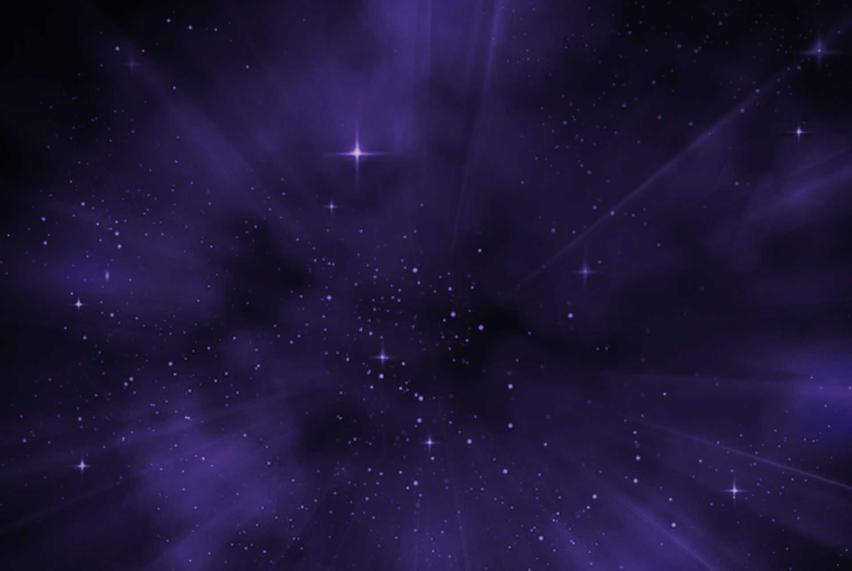
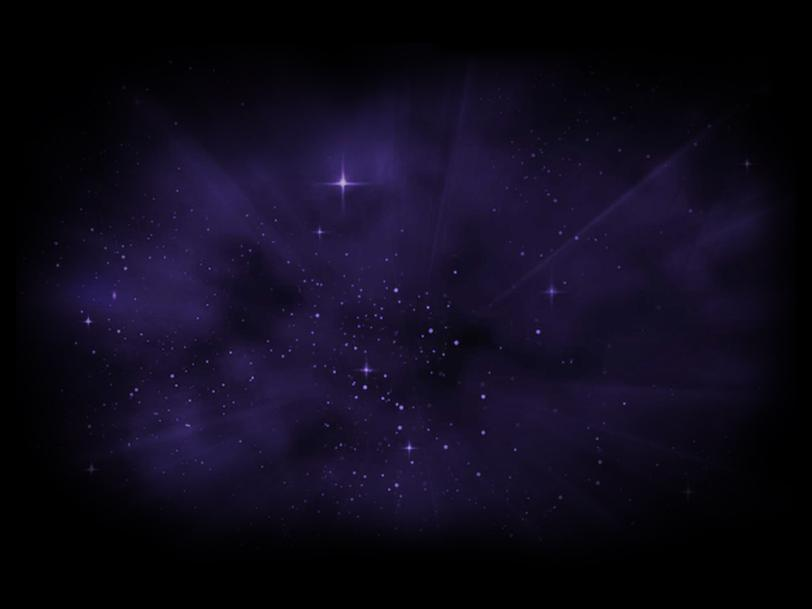
ui update

diff --git a/src/components/PageContact.vue b/src/components/PageContact.vue
@@ -15,23 +15,24 @@
           <CornButton content="GET CORNY WITH US"/>
         </a>
         <p v-if="isMobile" class="pt-4 md:pt-12 text-base">Proudly minting on <a target="_blank" :href="hederaLink"><span class="font-bold underline">Hedera</span></a></p>
+
         <p class="degular text-base px-4 md:px-0 pt-4 md:pt-16">&copy;CornyCohbs 2023 | NFTs with utilities</p>
       </div>
       <div class="md:pl-12 xl:pl-32 degular">
-        <p class="font-bold underline text-2xl">HOME</p>
+        <p class="font-bold underline text-2xl hoverState">HOME</p>
         <p class="py-2 font-bold cornyLightPurple text-2xl">Team (Coming Soon)</p>
         <p class="py-2 font-bold cornyLightPurple text-2xl">Collections (Coming Soon)</p>
         <div class="flex justify-center md:justify-start pt-4 sm:pt-10 md:pt-20 text-base">
-          <a target="_blank" :href="twitterLink" class="pr-8" >
-            <img src="@/assets/twitter.png" class="icons" alt="twitter_icon">
+          <a target="_blank" :href="twitterLink" class="pr-8 hoverState">
+            <svg fill="#FFFFFF" xmlns="http://www.w3.org/2000/svg" viewBox="0 0 50 50" class="iconsHoverState"><path d="M 50.0625 10.4375 C 48.214844 11.257813 46.234375 11.808594 44.152344 12.058594 C 46.277344 10.785156 47.910156 8.769531 48.675781 6.371094 C 46.691406 7.546875 44.484375 8.402344 42.144531 8.863281 C 40.269531 6.863281 37.597656 5.617188 34.640625 5.617188 C 28.960938 5.617188 24.355469 10.21875 24.355469 15.898438 C 24.355469 16.703125 24.449219 17.488281 24.625 18.242188 C 16.078125 17.8125 8.503906 13.71875 3.429688 7.496094 C 2.542969 9.019531 2.039063 10.785156 2.039063 12.667969 C 2.039063 16.234375 3.851563 19.382813 6.613281 21.230469 C 4.925781 21.175781 3.339844 20.710938 1.953125 19.941406 C 1.953125 19.984375 1.953125 20.027344 1.953125 20.070313 C 1.953125 25.054688 5.5 29.207031 10.199219 30.15625 C 9.339844 30.390625 8.429688 30.515625 7.492188 30.515625 C 6.828125 30.515625 6.183594 30.453125 5.554688 30.328125 C 6.867188 34.410156 10.664063 37.390625 15.160156 37.472656 C 11.644531 40.230469 7.210938 41.871094 2.390625 41.871094 C 1.558594 41.871094 0.742188 41.824219 -0.0585938 41.726563 C 4.488281 44.648438 9.894531 46.347656 15.703125 46.347656 C 34.617188 46.347656 44.960938 30.679688 44.960938 17.09375 C 44.960938 16.648438 44.949219 16.199219 44.933594 15.761719 C 46.941406 14.3125 48.683594 12.5 50.0625 10.4375 Z"/></svg>
             <span>Twitter</span>
           </a>
-          <a target="_blank" :href="discordLink" class="icons" >
-            <img src="@/assets/discord.png" class="" alt="discord_icon">
+          <a target="_blank" :href="discordLink" class="hoverState">
+            <svg fill="#FFFFFF" xmlns="http://www.w3.org/2000/svg" viewBox="0 0 50 50" class="iconsHoverState"><path d="M 41.625 10.769531 C 37.644531 7.566406 31.347656 7.023438 31.078125 7.003906 C 30.660156 6.96875 30.261719 7.203125 30.089844 7.589844 C 30.074219 7.613281 29.9375 7.929688 29.785156 8.421875 C 32.417969 8.867188 35.652344 9.761719 38.578125 11.578125 C 39.046875 11.867188 39.191406 12.484375 38.902344 12.953125 C 38.710938 13.261719 38.386719 13.429688 38.050781 13.429688 C 37.871094 13.429688 37.6875 13.378906 37.523438 13.277344 C 32.492188 10.15625 26.210938 10 25 10 C 23.789063 10 17.503906 10.15625 12.476563 13.277344 C 12.007813 13.570313 11.390625 13.425781 11.101563 12.957031 C 10.808594 12.484375 10.953125 11.871094 11.421875 11.578125 C 14.347656 9.765625 17.582031 8.867188 20.214844 8.425781 C 20.0625 7.929688 19.925781 7.617188 19.914063 7.589844 C 19.738281 7.203125 19.34375 6.960938 18.921875 7.003906 C 18.652344 7.023438 12.355469 7.566406 8.320313 10.8125 C 6.214844 12.761719 2 24.152344 2 34 C 2 34.175781 2.046875 34.34375 2.132813 34.496094 C 5.039063 39.605469 12.972656 40.941406 14.78125 41 C 14.789063 41 14.800781 41 14.8125 41 C 15.132813 41 15.433594 40.847656 15.621094 40.589844 L 17.449219 38.074219 C 12.515625 36.800781 9.996094 34.636719 9.851563 34.507813 C 9.4375 34.144531 9.398438 33.511719 9.765625 33.097656 C 10.128906 32.683594 10.761719 32.644531 11.175781 33.007813 C 11.234375 33.0625 15.875 37 25 37 C 34.140625 37 38.78125 33.046875 38.828125 33.007813 C 39.242188 32.648438 39.871094 32.683594 40.238281 33.101563 C 40.601563 33.515625 40.5625 34.144531 40.148438 34.507813 C 40.003906 34.636719 37.484375 36.800781 32.550781 38.074219 L 34.378906 40.589844 C 34.566406 40.847656 34.867188 41 35.1875 41 C 35.199219 41 35.210938 41 35.21875 41 C 37.027344 40.941406 44.960938 39.605469 47.867188 34.496094 C 47.953125 34.34375 48 34.175781 48 34 C 48 24.152344 43.785156 12.761719 41.625 10.769531 Z M 18.5 30 C 16.566406 30 15 28.210938 15 26 C 15 23.789063 16.566406 22 18.5 22 C 20.433594 22 22 23.789063 22 26 C 22 28.210938 20.433594 30 18.5 30 Z M 31.5 30 C 29.566406 30 28 28.210938 28 26 C 28 23.789063 29.566406 22 31.5 22 C 33.433594 22 35 23.789063 35 26 C 35 28.210938 33.433594 30 31.5 30 Z"/></svg>            
             <span>Discord</span>
           </a>
         </div>
-        <p v-if="!isMobile" class="pt-4 md:pt-12 text-base">Proudly minting on <a target="_blank" :href="hederaLink"><span class="font-bold underline">Hedera</span></a></p>
+        <p v-if="!isMobile" class="pt-4 md:pt-12 text-base">Proudly minting on <a target="_blank" :href="hederaLink"><span class="font-bold underline hoverState">Hedera</span></a></p>
       </div>
     </div>
   </div>
@@ -51,3 +52,13 @@ export default {
     }
 }
 </script>
+<style>
+.icons {
+  width: 50px;
+  height: 50px;
+}
+
+.hoverState:hover {
+  color: #FCEA4D;
+}
+</style>

diff --git a/src/components/PageHeader.vue b/src/components/PageHeader.vue
@@ -6,12 +6,16 @@
                 <span class="text-white">Cohbs</span>
             </div>
             <div class="flex">
-                <a target="_blank" :href="twitterLink"><img src="@/assets/twitter.png" class="mx-4 icons" alt="twitter_icon"></a>
-                <a target="_blank" :href="discordLink"><img src="@/assets/discord.png" class="mx-4 icons" alt="discord_icon"></a>
+                <a target="_blank" :href="twitterLink">
+                  <svg fill="#FFFFFF" xmlns="http://www.w3.org/2000/svg" viewBox="0 0 50 50" class="mx-4 icons iconsHoverState"><path d="M 50.0625 10.4375 C 48.214844 11.257813 46.234375 11.808594 44.152344 12.058594 C 46.277344 10.785156 47.910156 8.769531 48.675781 6.371094 C 46.691406 7.546875 44.484375 8.402344 42.144531 8.863281 C 40.269531 6.863281 37.597656 5.617188 34.640625 5.617188 C 28.960938 5.617188 24.355469 10.21875 24.355469 15.898438 C 24.355469 16.703125 24.449219 17.488281 24.625 18.242188 C 16.078125 17.8125 8.503906 13.71875 3.429688 7.496094 C 2.542969 9.019531 2.039063 10.785156 2.039063 12.667969 C 2.039063 16.234375 3.851563 19.382813 6.613281 21.230469 C 4.925781 21.175781 3.339844 20.710938 1.953125 19.941406 C 1.953125 19.984375 1.953125 20.027344 1.953125 20.070313 C 1.953125 25.054688 5.5 29.207031 10.199219 30.15625 C 9.339844 30.390625 8.429688 30.515625 7.492188 30.515625 C 6.828125 30.515625 6.183594 30.453125 5.554688 30.328125 C 6.867188 34.410156 10.664063 37.390625 15.160156 37.472656 C 11.644531 40.230469 7.210938 41.871094 2.390625 41.871094 C 1.558594 41.871094 0.742188 41.824219 -0.0585938 41.726563 C 4.488281 44.648438 9.894531 46.347656 15.703125 46.347656 C 34.617188 46.347656 44.960938 30.679688 44.960938 17.09375 C 44.960938 16.648438 44.949219 16.199219 44.933594 15.761719 C 46.941406 14.3125 48.683594 12.5 50.0625 10.4375 Z"/></svg>
+                </a>
+                <a target="_blank" :href="discordLink">
+                  <svg fill="#FFFFFF" xmlns="http://www.w3.org/2000/svg" viewBox="0 0 50 50" class="mx-4 icons iconsHoverState"><path d="M 41.625 10.769531 C 37.644531 7.566406 31.347656 7.023438 31.078125 7.003906 C 30.660156 6.96875 30.261719 7.203125 30.089844 7.589844 C 30.074219 7.613281 29.9375 7.929688 29.785156 8.421875 C 32.417969 8.867188 35.652344 9.761719 38.578125 11.578125 C 39.046875 11.867188 39.191406 12.484375 38.902344 12.953125 C 38.710938 13.261719 38.386719 13.429688 38.050781 13.429688 C 37.871094 13.429688 37.6875 13.378906 37.523438 13.277344 C 32.492188 10.15625 26.210938 10 25 10 C 23.789063 10 17.503906 10.15625 12.476563 13.277344 C 12.007813 13.570313 11.390625 13.425781 11.101563 12.957031 C 10.808594 12.484375 10.953125 11.871094 11.421875 11.578125 C 14.347656 9.765625 17.582031 8.867188 20.214844 8.425781 C 20.0625 7.929688 19.925781 7.617188 19.914063 7.589844 C 19.738281 7.203125 19.34375 6.960938 18.921875 7.003906 C 18.652344 7.023438 12.355469 7.566406 8.320313 10.8125 C 6.214844 12.761719 2 24.152344 2 34 C 2 34.175781 2.046875 34.34375 2.132813 34.496094 C 5.039063 39.605469 12.972656 40.941406 14.78125 41 C 14.789063 41 14.800781 41 14.8125 41 C 15.132813 41 15.433594 40.847656 15.621094 40.589844 L 17.449219 38.074219 C 12.515625 36.800781 9.996094 34.636719 9.851563 34.507813 C 9.4375 34.144531 9.398438 33.511719 9.765625 33.097656 C 10.128906 32.683594 10.761719 32.644531 11.175781 33.007813 C 11.234375 33.0625 15.875 37 25 37 C 34.140625 37 38.78125 33.046875 38.828125 33.007813 C 39.242188 32.648438 39.871094 32.683594 40.238281 33.101563 C 40.601563 33.515625 40.5625 34.144531 40.148438 34.507813 C 40.003906 34.636719 37.484375 36.800781 32.550781 38.074219 L 34.378906 40.589844 C 34.566406 40.847656 34.867188 41 35.1875 41 C 35.199219 41 35.210938 41 35.21875 41 C 37.027344 40.941406 44.960938 39.605469 47.867188 34.496094 C 47.953125 34.34375 48 34.175781 48 34 C 48 24.152344 43.785156 12.761719 41.625 10.769531 Z M 18.5 30 C 16.566406 30 15 28.210938 15 26 C 15 23.789063 16.566406 22 18.5 22 C 20.433594 22 22 23.789063 22 26 C 22 28.210938 20.433594 30 18.5 30 Z M 31.5 30 C 29.566406 30 28 28.210938 28 26 C 28 23.789063 29.566406 22 31.5 22 C 33.433594 22 35 23.789063 35 26 C 35 28.210938 33.433594 30 31.5 30 Z"/></svg>
+                </a>
             </div>
         </div>
   </div>
-  <div id="intoTheCornVerse" class="min-h-70 flex items-center">
+  <div id="intoTheCornVerse" class="flex items-center min-h-70">
         <img src="@/assets/cornverse.png" class="mx-auto avatar" alt="into_the_cornverse">
   </div>
 </template>
@@ -28,15 +32,27 @@ export default {
 	animation: float 6s ease-in-out infinite;
 }
 
+.icons {
+  width: 50px;
+  height: 50px;
+}
+
+@media screen and (max-width: 768px) {
+  .icons {
+    width: 35px;
+    height: 35px;
+  }
+}
+
 @keyframes float {
 	0% {
-		transform: translatey(20px);
+		transform: translatey(30px);
 	}
 	50% {
 		transform: translatey(0px);
 	}
 	100% {
-		transform: translatey(20px);
+		transform: translatey(30px);
 	}
 }
 </style>

diff --git a/src/components/StoryLine.vue b/src/components/StoryLine.vue
@@ -9,10 +9,10 @@
         <img class="slide" src="@/assets/frame1.png" alt="frame1">
       </div>
       <div class="slidewrapper">
-        <img class="slide" src="@/assets/frame1.png" alt="frame1">
+        <img class="slide" src="@/assets/frame2.jpg" alt="frame2">
       </div>
       <div class="slidewrapper">
-        <img class="slide" src="@/assets/frame1.png" alt="frame1">
+        <img class="slide" src="@/assets/frame3.jpg" alt="frame3">
       </div>
       <div class="slidewrapper">
         <img class="slide" src="@/assets/frame1.png" alt="frame1">
@@ -38,17 +38,17 @@
     </div>
     <div class="container lg:px-64 py-16">
       <p>Everything changes when Corny discovers a mesmerizing crystal ball during his cleanup duties. As Corny gazes into it, he encounters a trippy corn cob figure that lures him into the depths of the Cornyverse.</p>
-      <CornButton content="ENTER THE CORNVERSE"/>
+      <!-- <CornButton content="ENTER THE CORNVERSE"/> -->
     </div>
   </div>
 </template>
 <script>
-import CornButton from './CornButton.vue';
+// import CornButton from './CornButton.vue';
 
 export default {
     name: 'StoryLine',
     components: {
-        CornButton
+        // CornButton
     },
 }
 </script>

diff --git a/src/components/PageDescription.vue b/src/components/PageDescription.vue
@@ -7,7 +7,7 @@
                 <p class="font-bold text-xl">Welcome to Corny Cohbs, an NFT collection of 4,000 corny characters that inhabit the Cornyverse.</p> 
                 <p class="pt-8 text-xl font-semibold">
                     Corny Cohbs is minting on the Hedera Token Service (HTS) using NFT technology that is provided on the 
-                    <a target="_blank" :href="hederaLink"><span class="font-bold underline">Hedera Network</span></a>
+                    <a target="_blank" :href="hederaLink"><span class="font-bold underline hoverState">Hedera Network</span></a>
                 </p>
                 </div>
             </div>
@@ -20,3 +20,8 @@ export default {
     name: 'PageDescription'
 }
 </script>
+<style scoped>
+.hoverState:hover{
+    color: #FF4F1A;
+}
+</style>

diff --git a/src/App.vue b/src/App.vue
@@ -40,7 +40,8 @@ export default {
   methods: {
     goToTop() {
       window.scrollTo({ top: 0, behavior: 'smooth' });
-    }
+    },
+
   }
 }
 </script>
@@ -53,7 +54,8 @@ export default {
 #intoTheCornVerse {
   background-image: url('@/assets/cornverse-bg.jpeg');
   background-repeat: no-repeat;
-  background-size: cover;
+  background-position: center;
+  background-color: #000; 
 }
 
 #cornsGIF {
@@ -63,6 +65,7 @@ export default {
 
 .max-width-350 {
   max-width: 350px;
+  margin: 0 auto;
 }
 
 .degular {
@@ -107,6 +110,10 @@ export default {
 
 .bgCornyLightYellow {
   background-color: #FFFED5;
+}
+
+.iconsHoverState:hover {
+  fill: #FCEA4D;
 }
 
 @media screen and (max-width: 768px) {

diff --git a/src/components/CornButton.vue b/src/components/CornButton.vue
@@ -13,5 +13,10 @@ export default {
 <style>
 .bgCornyOrange {
   background-color: #FF4F1A;
+
+  &:hover {
+    background-color: #fff;
+    color: #FF4F1A;
+  }
 }
 </style>

diff --git a/postcss.config.js b/postcss.config.js
@@ -1,5 +1,7 @@
 module.exports = {
   plugins: {
+    'postcss-import': {},
+    'tailwindcss/nesting': {},
     tailwindcss: {},
     autoprefixer: {},
   },
